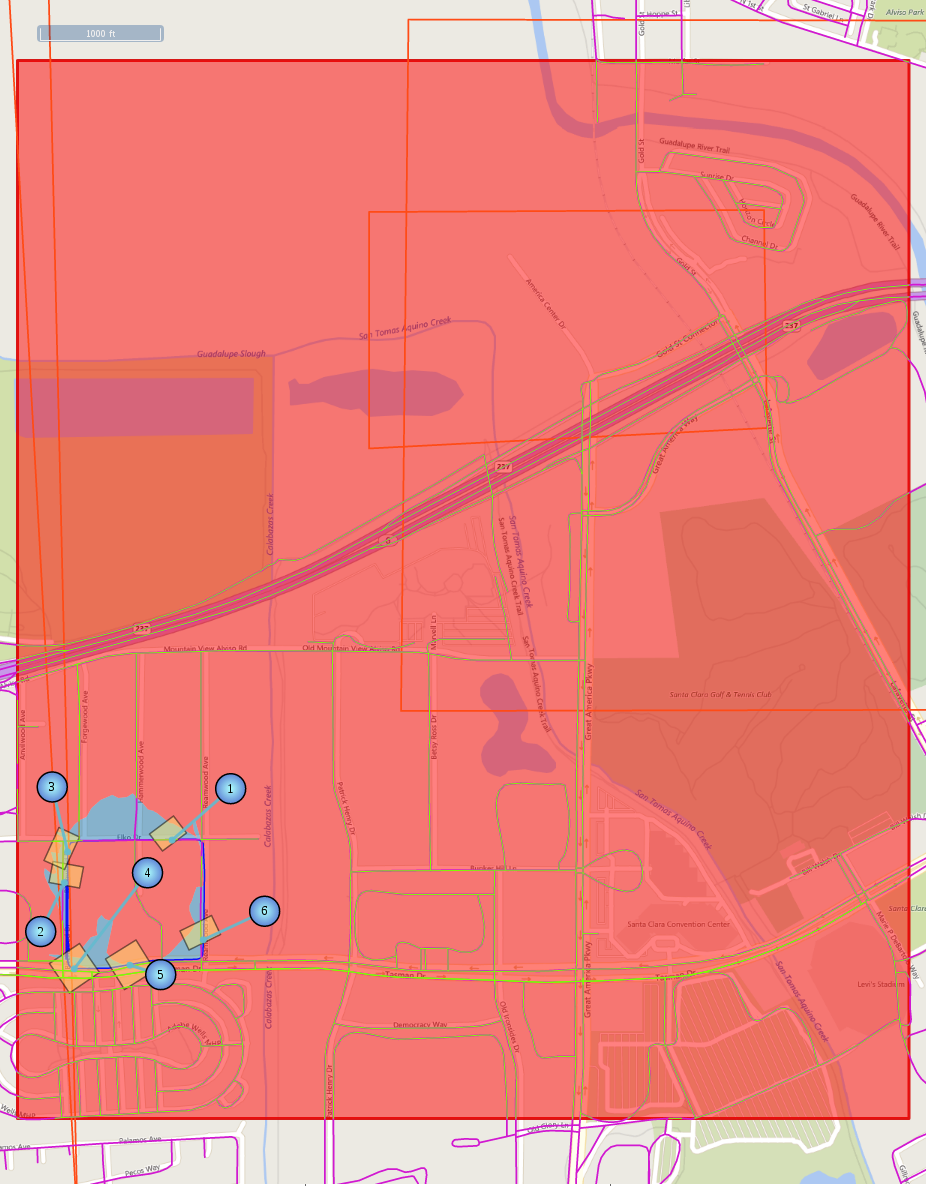
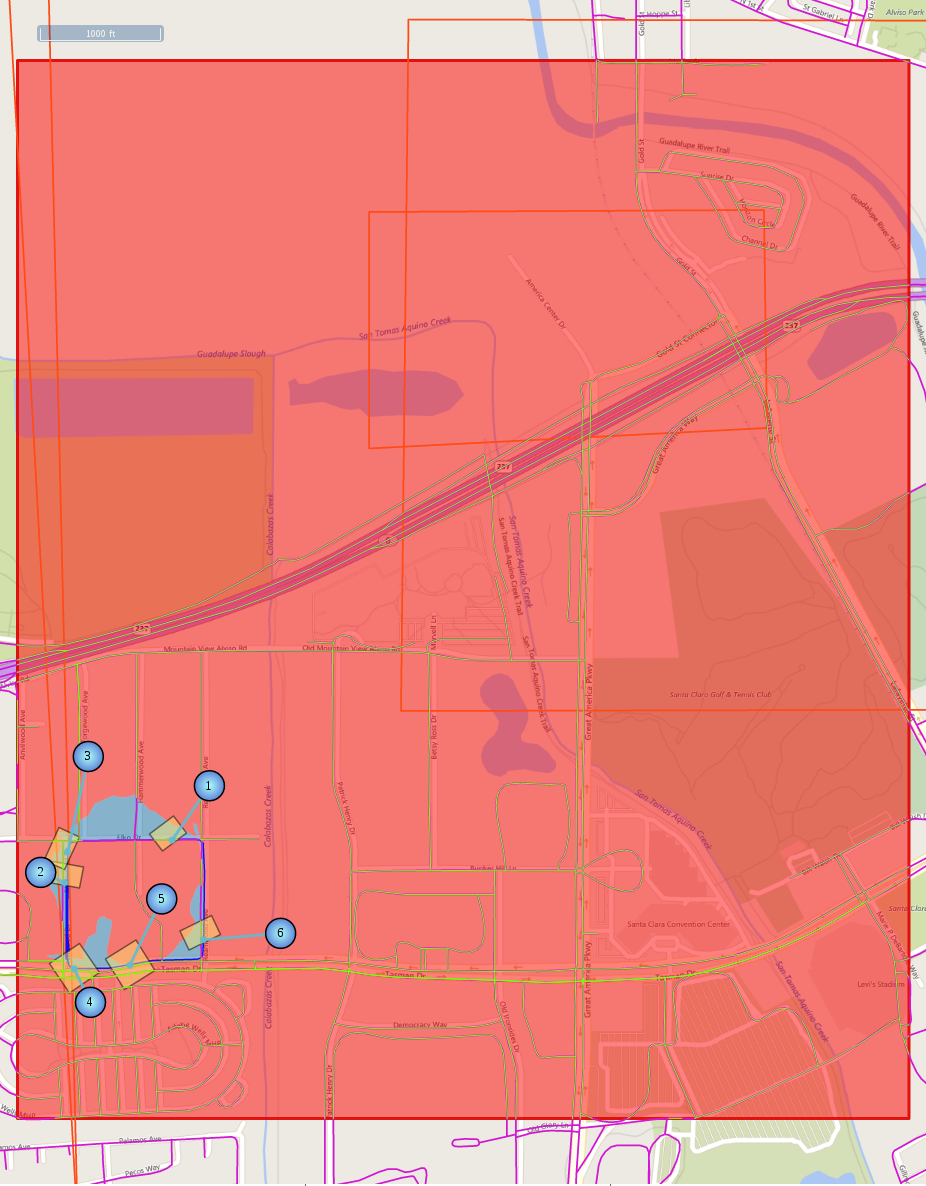
Modified rankingMinAmplitude for test

diff --git a/selenium-wd/tests/surveyor/regression/source/AnalyticsReportsWithNewSurveyPageTest2.java b/selenium-wd/tests/surveyor/regression/source/AnalyticsReportsWithNewSurveyPageTest2.java
@@ -102,7 +102,7 @@ public class AnalyticsReportsWithNewSurveyPageTest2 extends BaseReportsPageActio
 				surveyorName = testAccount.get("surveyorName");
 				customerId = testAccount.get("customerId");
 				surveyMinAmplitude = "0.035";
-				rankingMinAmplitude = "2.0";
+				rankingMinAmplitude = "0.035";
 				manageLocationPageActions.open(EMPTY, NOTSET);
 				manageLocationPageActions.getManageLocationsPage().editSurveyMinAmplitude(customerName,locationName,surveyMinAmplitude);
 				manageLocationPageActions.getManageLocationsPage().editRankingMinAmplitude(customerName,locationName,rankingMinAmplitude);
